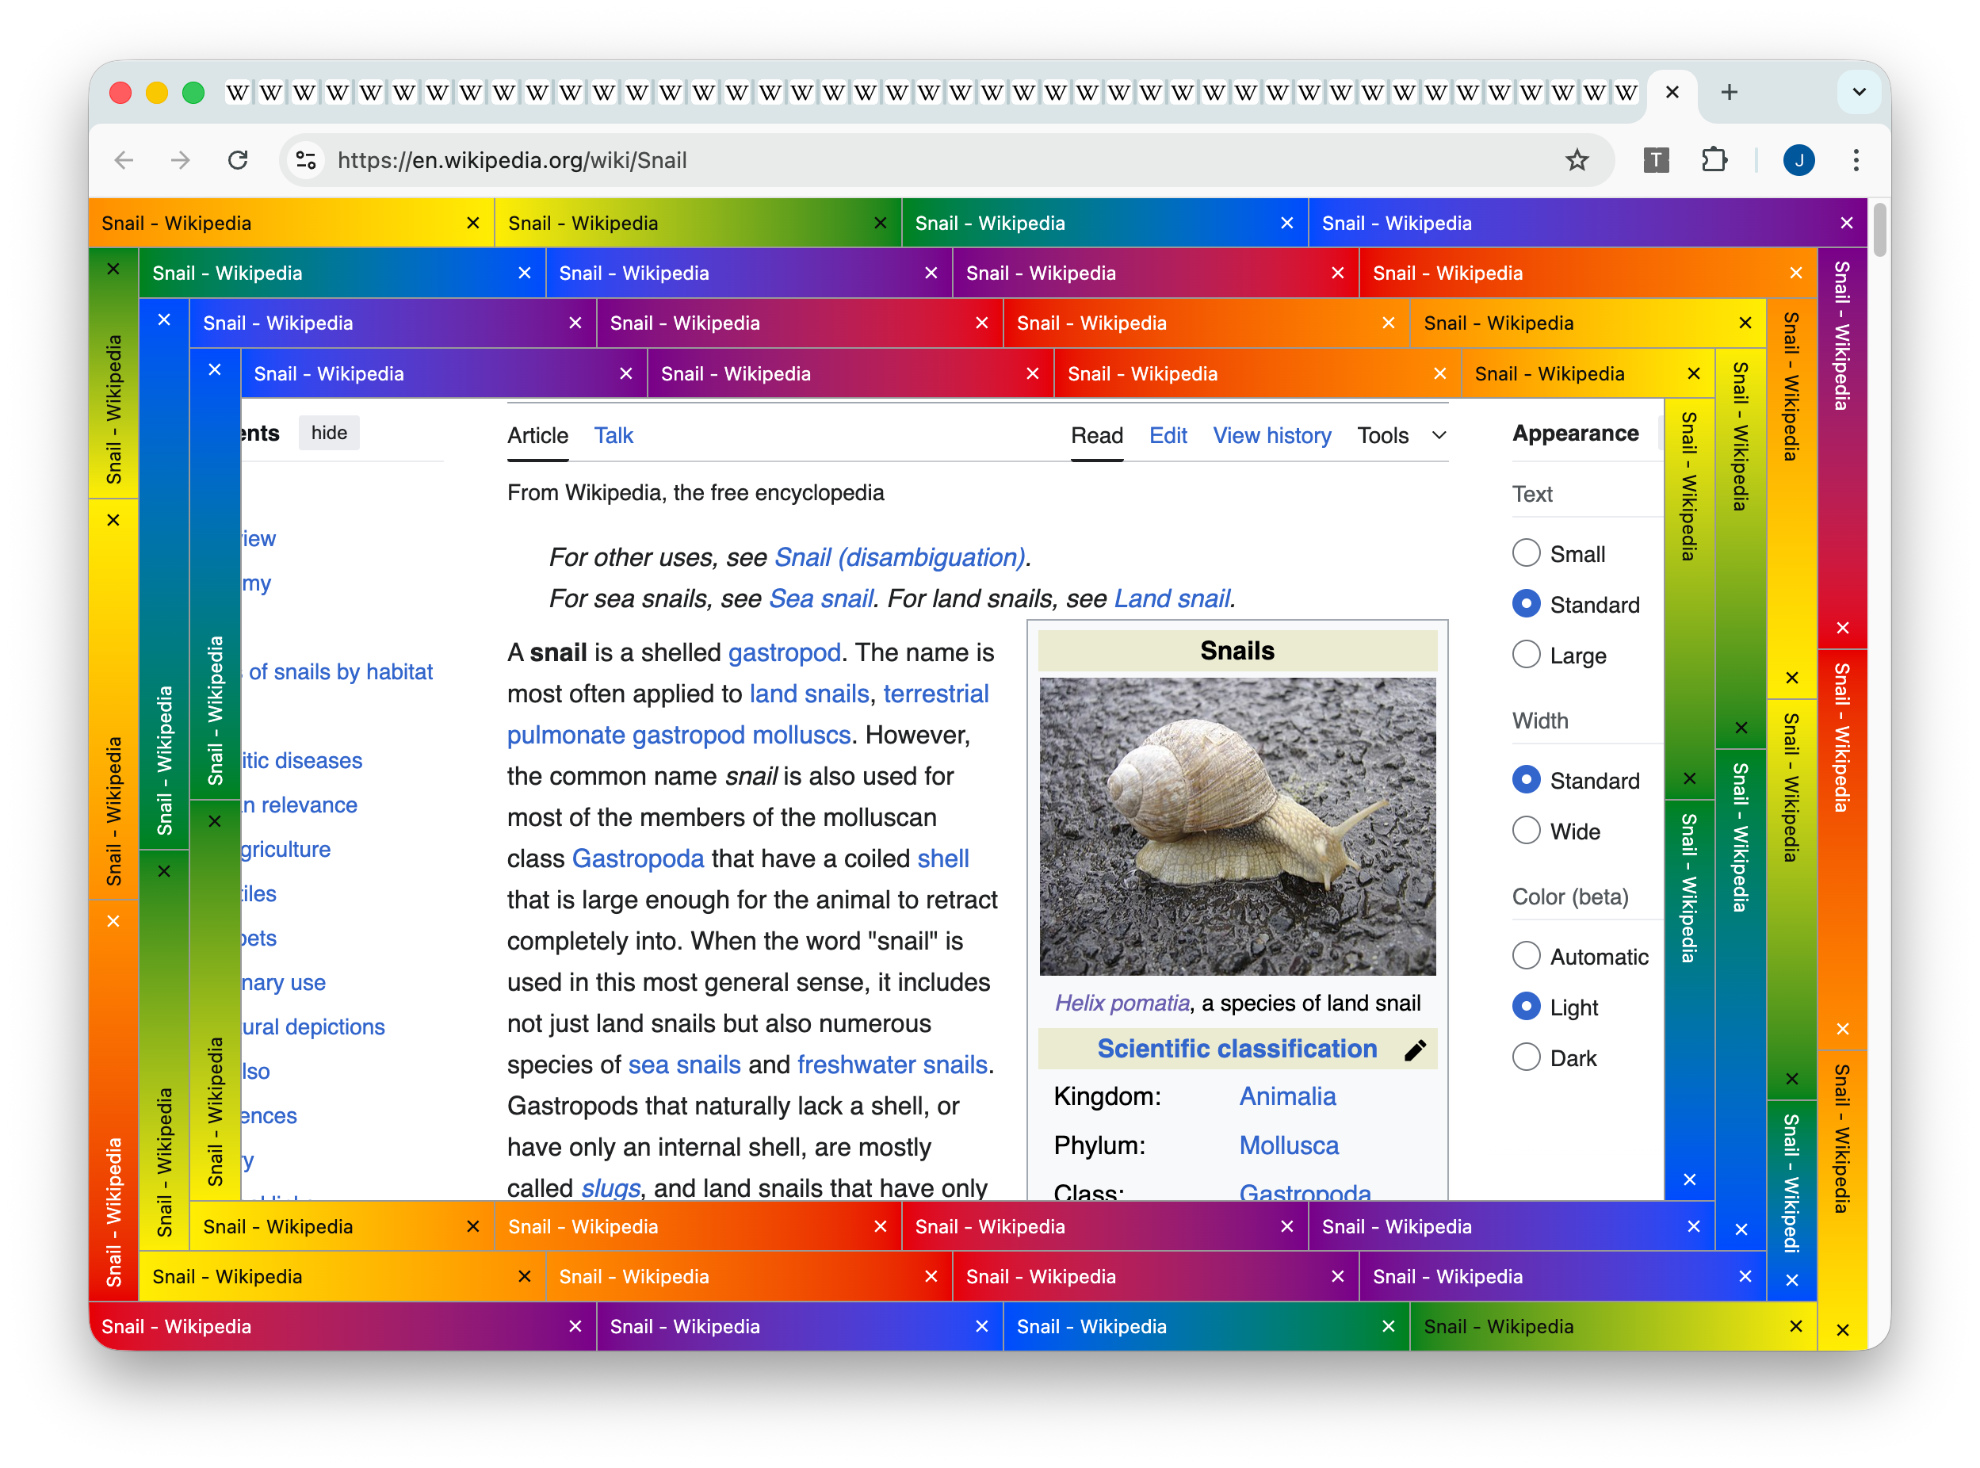
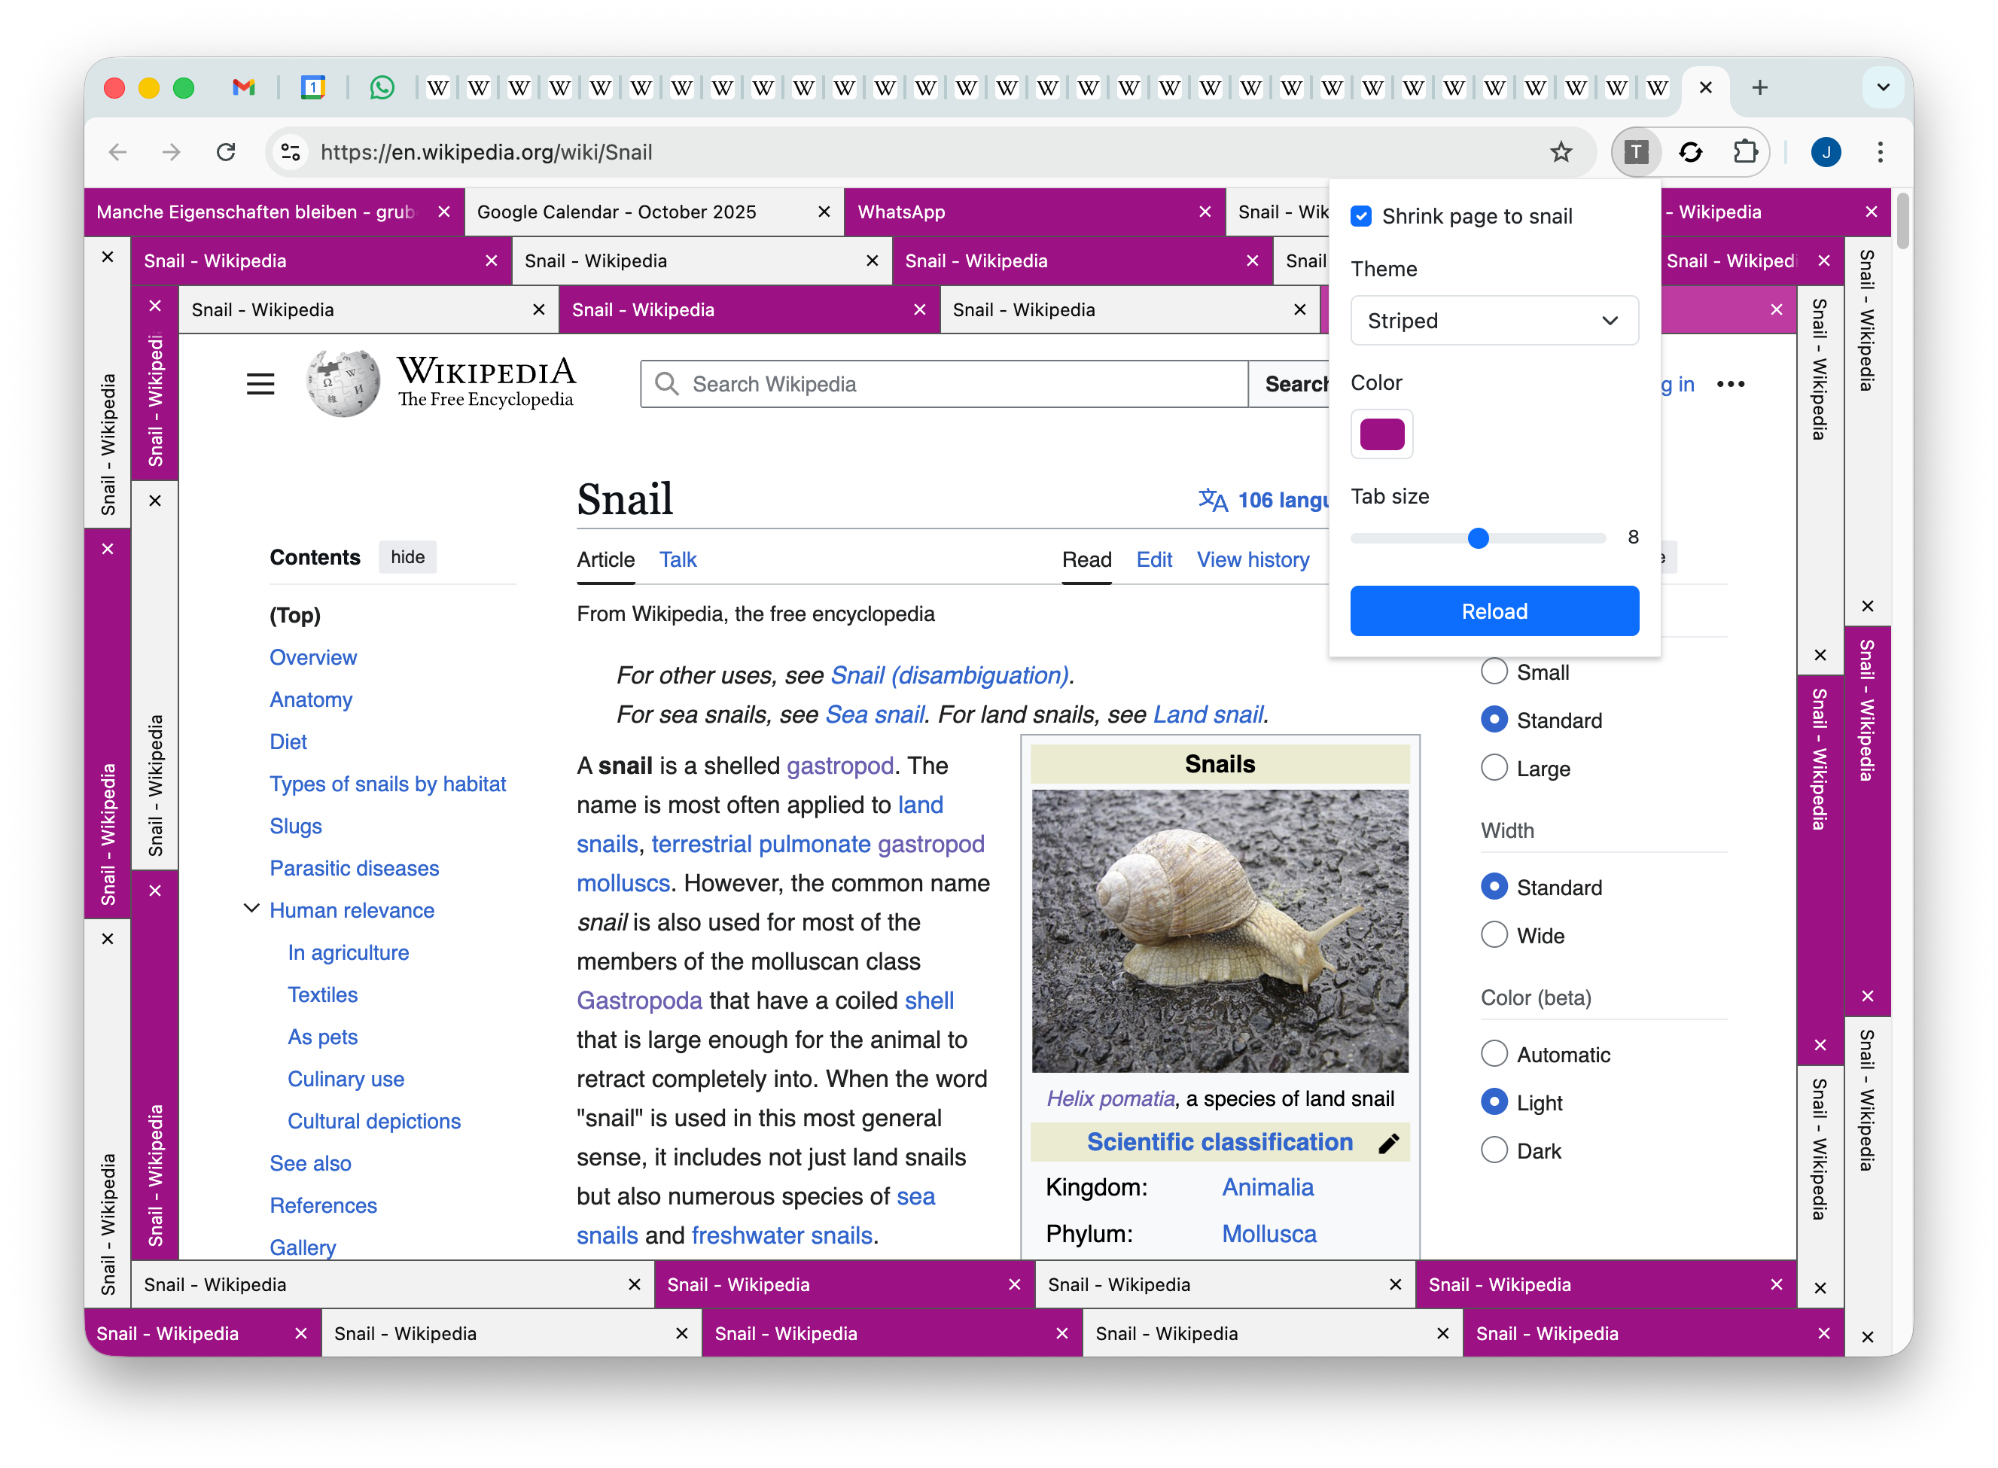
Update README

diff --git a/README.md b/README.md
@@ -16,11 +16,12 @@ Licensed under the
 - [x] Show all tabs in snail form
 - [x] Navigation
 - [x] Close tabs
-- [ ] Shrink website viewport to inner snail bounds
+- [x] Shrink page to inner snail bounds
 - [x] Update layout on viewport changes
 - [x] Configurable tab size
 - [ ] [Themes](https://www.instagram.com/p/DMdTtUJpaxi)
-  - [x] default (striped) with color setting
+  - [x] Striped (default) with color setting
+  - [x] Pride
   - [ ] Windows 95
   - [ ] Leopard Slug
   - [ ] Pacific Banana Slug
